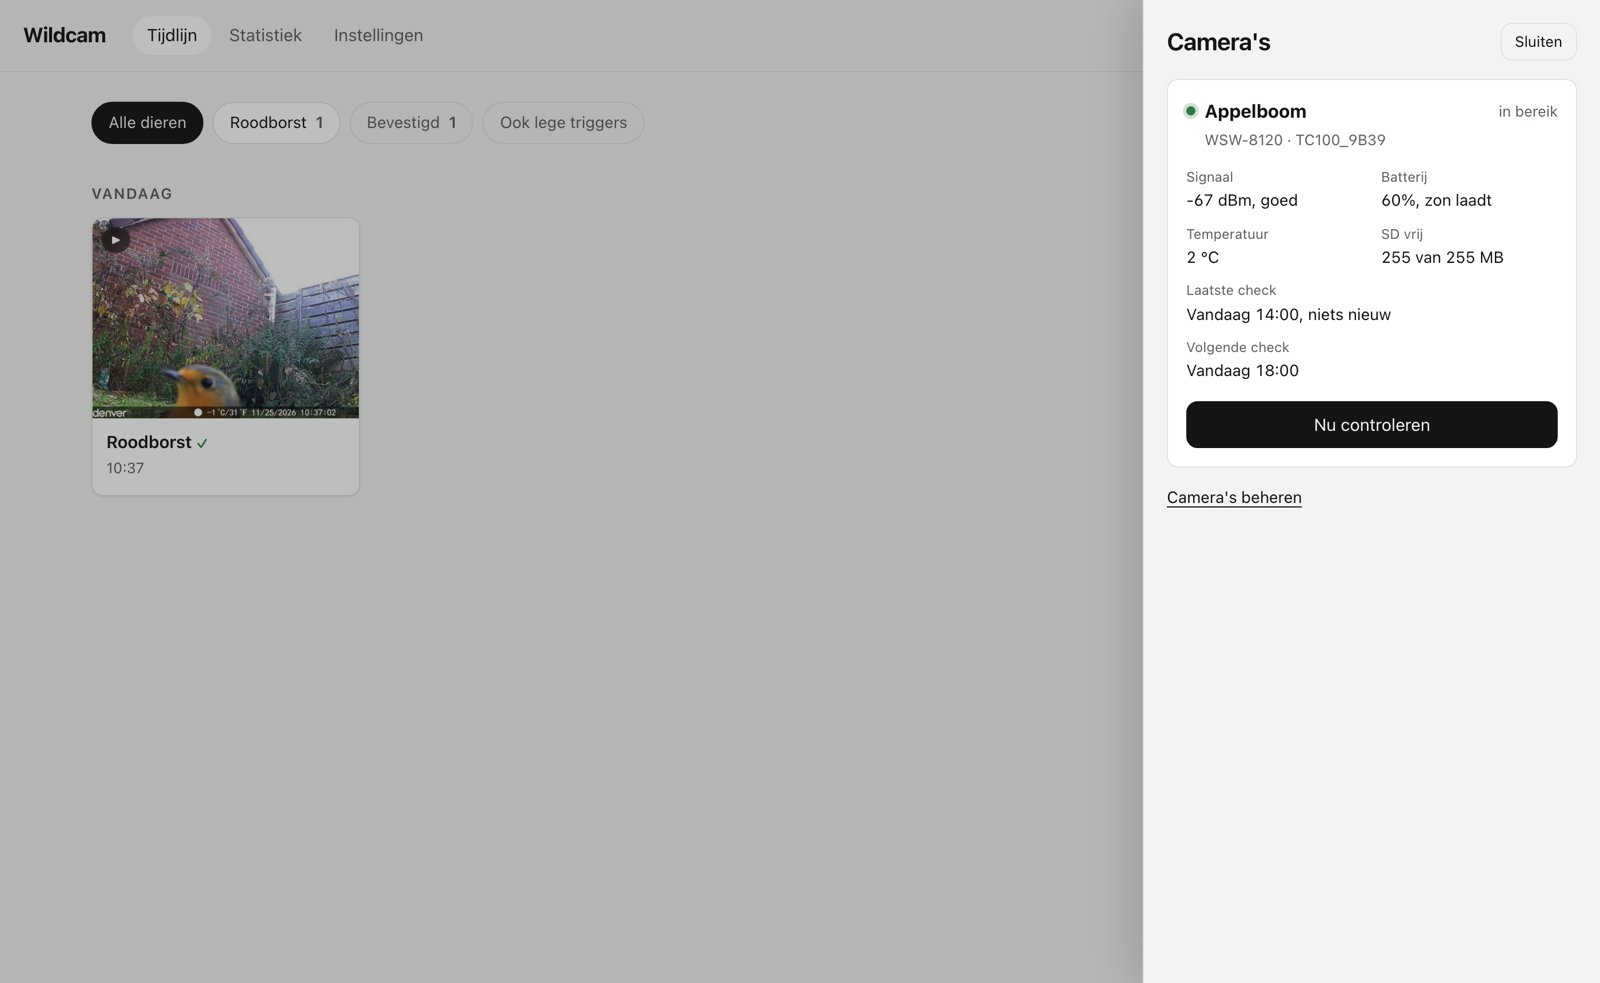
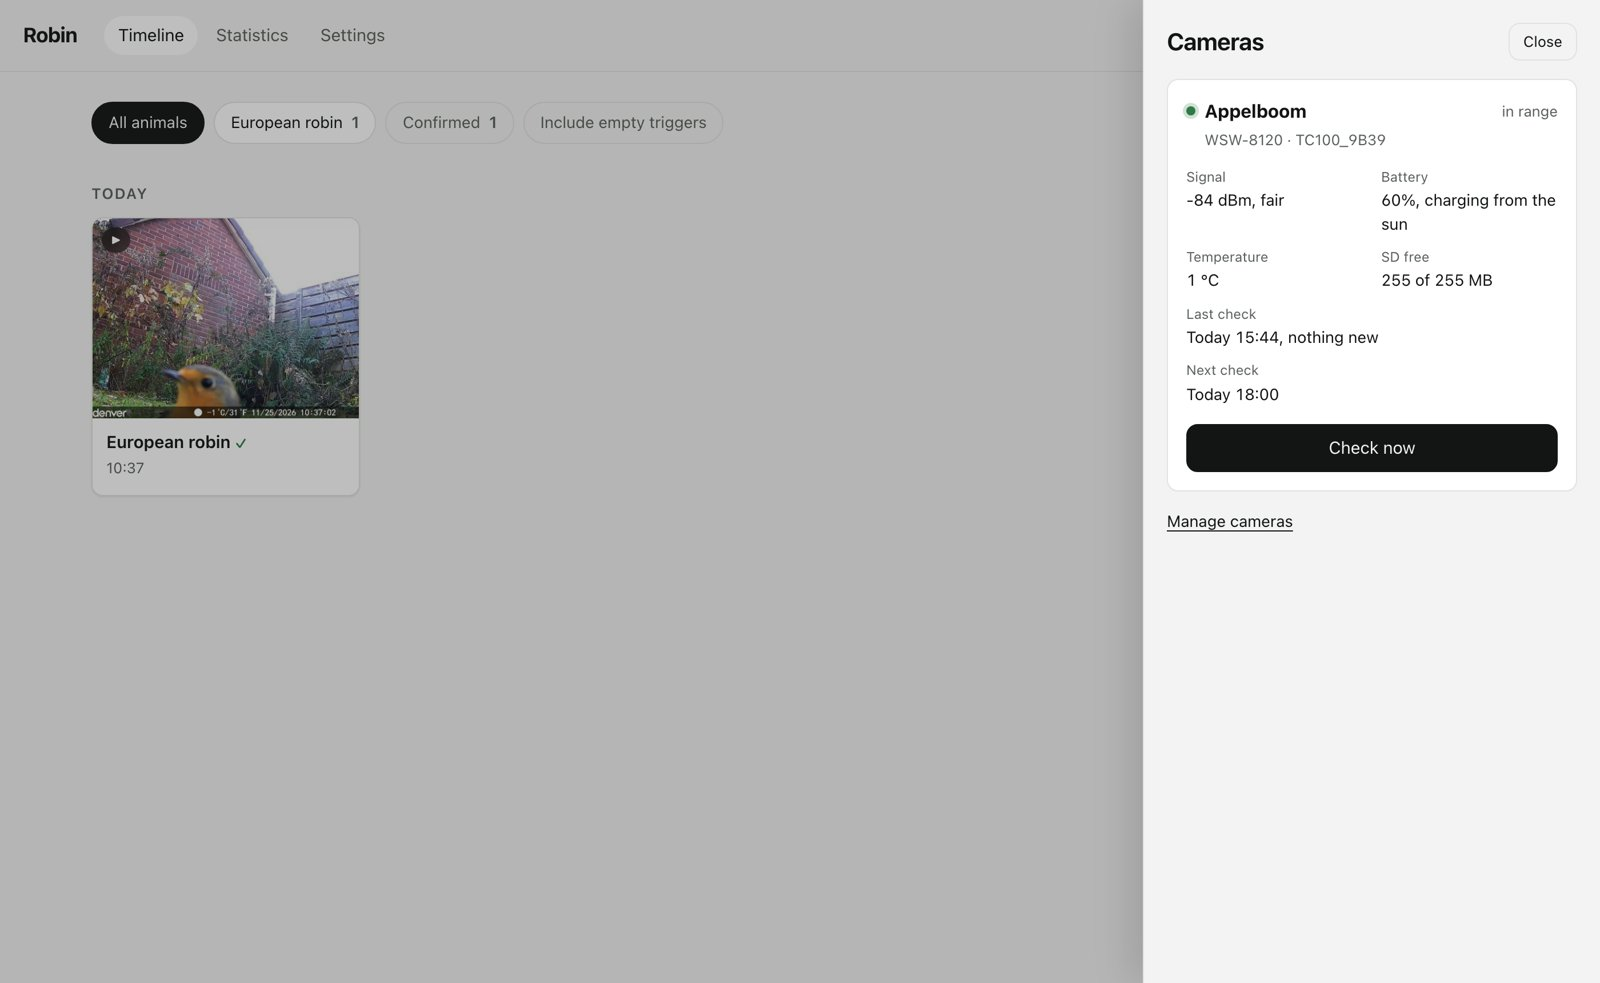
Posts: English Robin screenshot, and why the Pi had to work out of the box

diff --git a/content/posts/birdstation/index.md b/content/posts/birdstation/index.md
@@ -56,7 +56,9 @@ Power cuts are the first problem. Someone pulls the cable, the switch reboots, a
 
 The headset is a stopgap, and I wanted to plug in a real microphone later without rebuilding anything. The setup picks the sound card by name instead of by number and picks the best sample rate it supports. The headset surprised me there: it records natively at 48 kHz. A minute of the live stream showed no clipping, low rumble from wind and traffic, and a 50 Hz hum from its cable. No bird lives down there, so BirdNET-Go's high-pass filter takes that out for free. The real limit is the headset itself: faint flight calls high in the night sky need a proper microphone.
 
-Everything is scripted. One script writes the SD card, with checks so it can never touch the laptop's own disk, and an Ansible playbook does the rest. If the card ever dies, a new one is fifteen minutes away.
+I was a bit lazy here, too. I wanted to write the SD card, plug in the Pi and SSH straight into it with most of it already set up. I've always hated the usual Raspberry Pi fiddling: an HDMI cable to a monitor, a keyboard, cables everywhere, and a USB charger that's always just too short, so you end up with the Pi on your lap, being drawn and quartered by its own cables.
+
+So everything is scripted. One script writes the SD card, with checks so it can never touch the laptop's own disk, and the Pi comes up on the network ready to log in. An Ansible playbook does the rest. If the card ever dies, a new one is fifteen minutes away.
 
 It now lives in a white weatherproof box in the garden, on its one network cable, with the headset's microphone poking out of the bottom. I've started calling it the birdbox.
 

diff --git a/content/posts/birdbox-trail-camera/index.md b/content/posts/birdbox-trail-camera/index.md
@@ -81,7 +81,7 @@ The Pi doesn't decide anything by itself. It has a small web API and waits until
 - Every clip gets looked at by three models: Google's SpeciesNet, DeepFaune (trained on European trail camera footage) and Claude. They vote, and I can correct them. Once I've approved a clip, it stays approved.
 - A side panel shows each camera with its Bluetooth signal, battery, whether the sun is charging it, temperature, free space on the card, and when it was last and next checked. A "check now" button shows which clip is coming in.
 
-![The Robin timeline with the camera panel open: camera Appelboom in range, signal -67 dBm, battery 60% charging from the sun, 2 °C, 255 of 255 MB free, last check 14:00, next check 18:00](dashboard.jpg)
+![The Robin timeline with the camera panel open: camera Appelboom in range, signal -84 dBm, battery 60% charging from the sun, 1 °C, 255 of 255 MB free, last check 15:44 with nothing new, next check 18:00, and one clip of a European robin in the timeline](dashboard.jpg)
 
 Adding a camera is a name and the address of its bridge. A camera in the front garden would be another ESP32 next to another Pi, and its clips land in the same timeline. A cheap camera now does what the expensive ones do, and a second or third one just shows up next to it.
 
